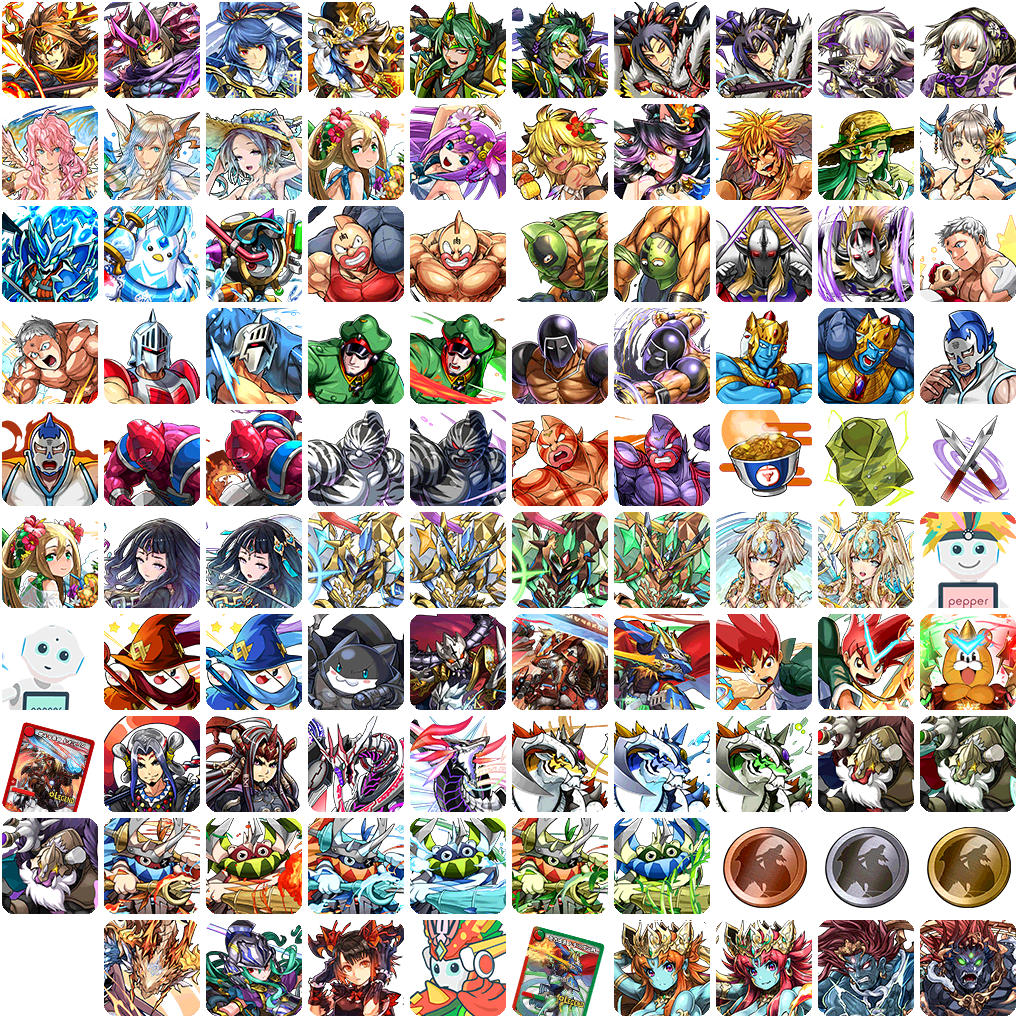
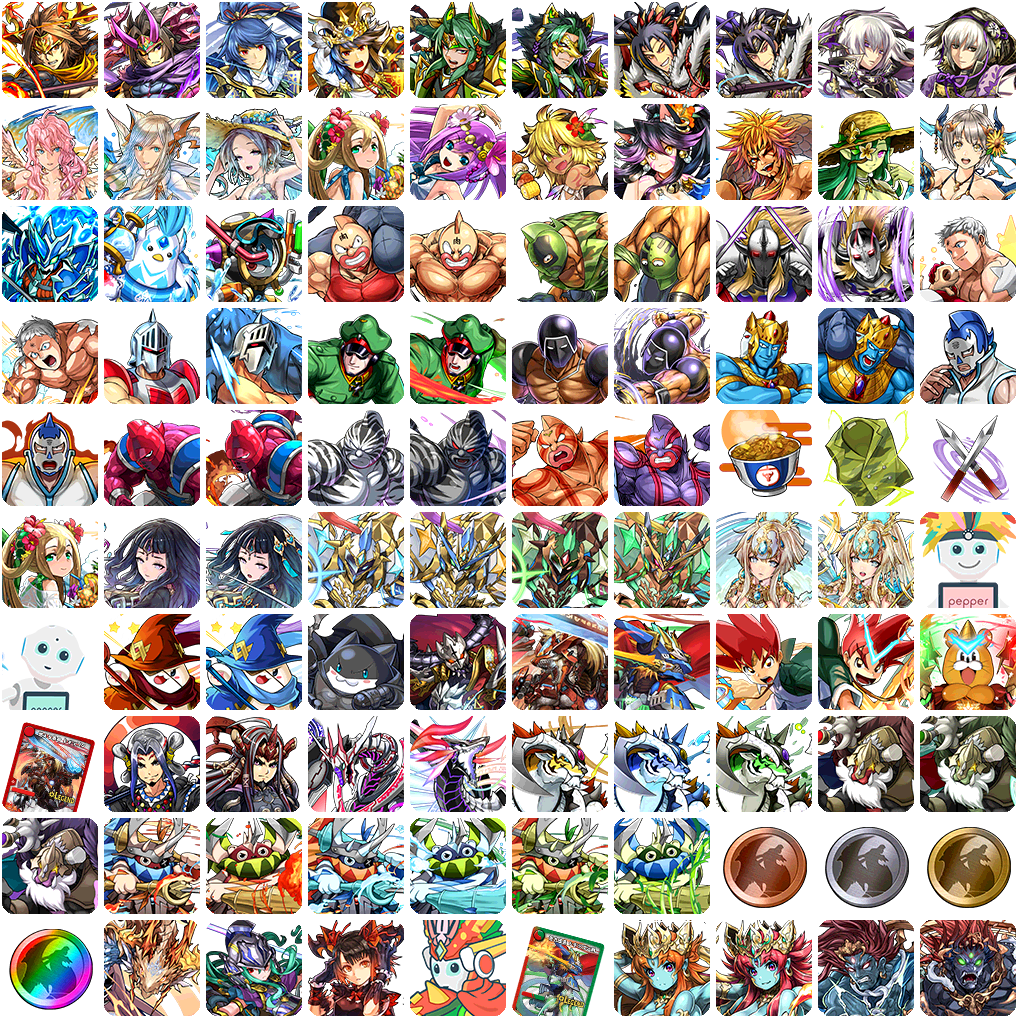
增加薯饼

Changed region(s): [[0.0, 0.9062, 0.0938, 1.0]]

diff --git a/生成二技宠物JSON.js b/生成二技宠物JSON.js
@@ -203,6 +203,7 @@ var monsterList = [
         3865, //御坊茶魔
         4017, //星馬烈
         4018, //星馬豪
+        4125, //薯餅
     ]},
     {group: "MP商店：本家特别版角色，期间限定商品（可能不全）",ids: [
         2290, //雪白的美公主・女武神葛雷婭
